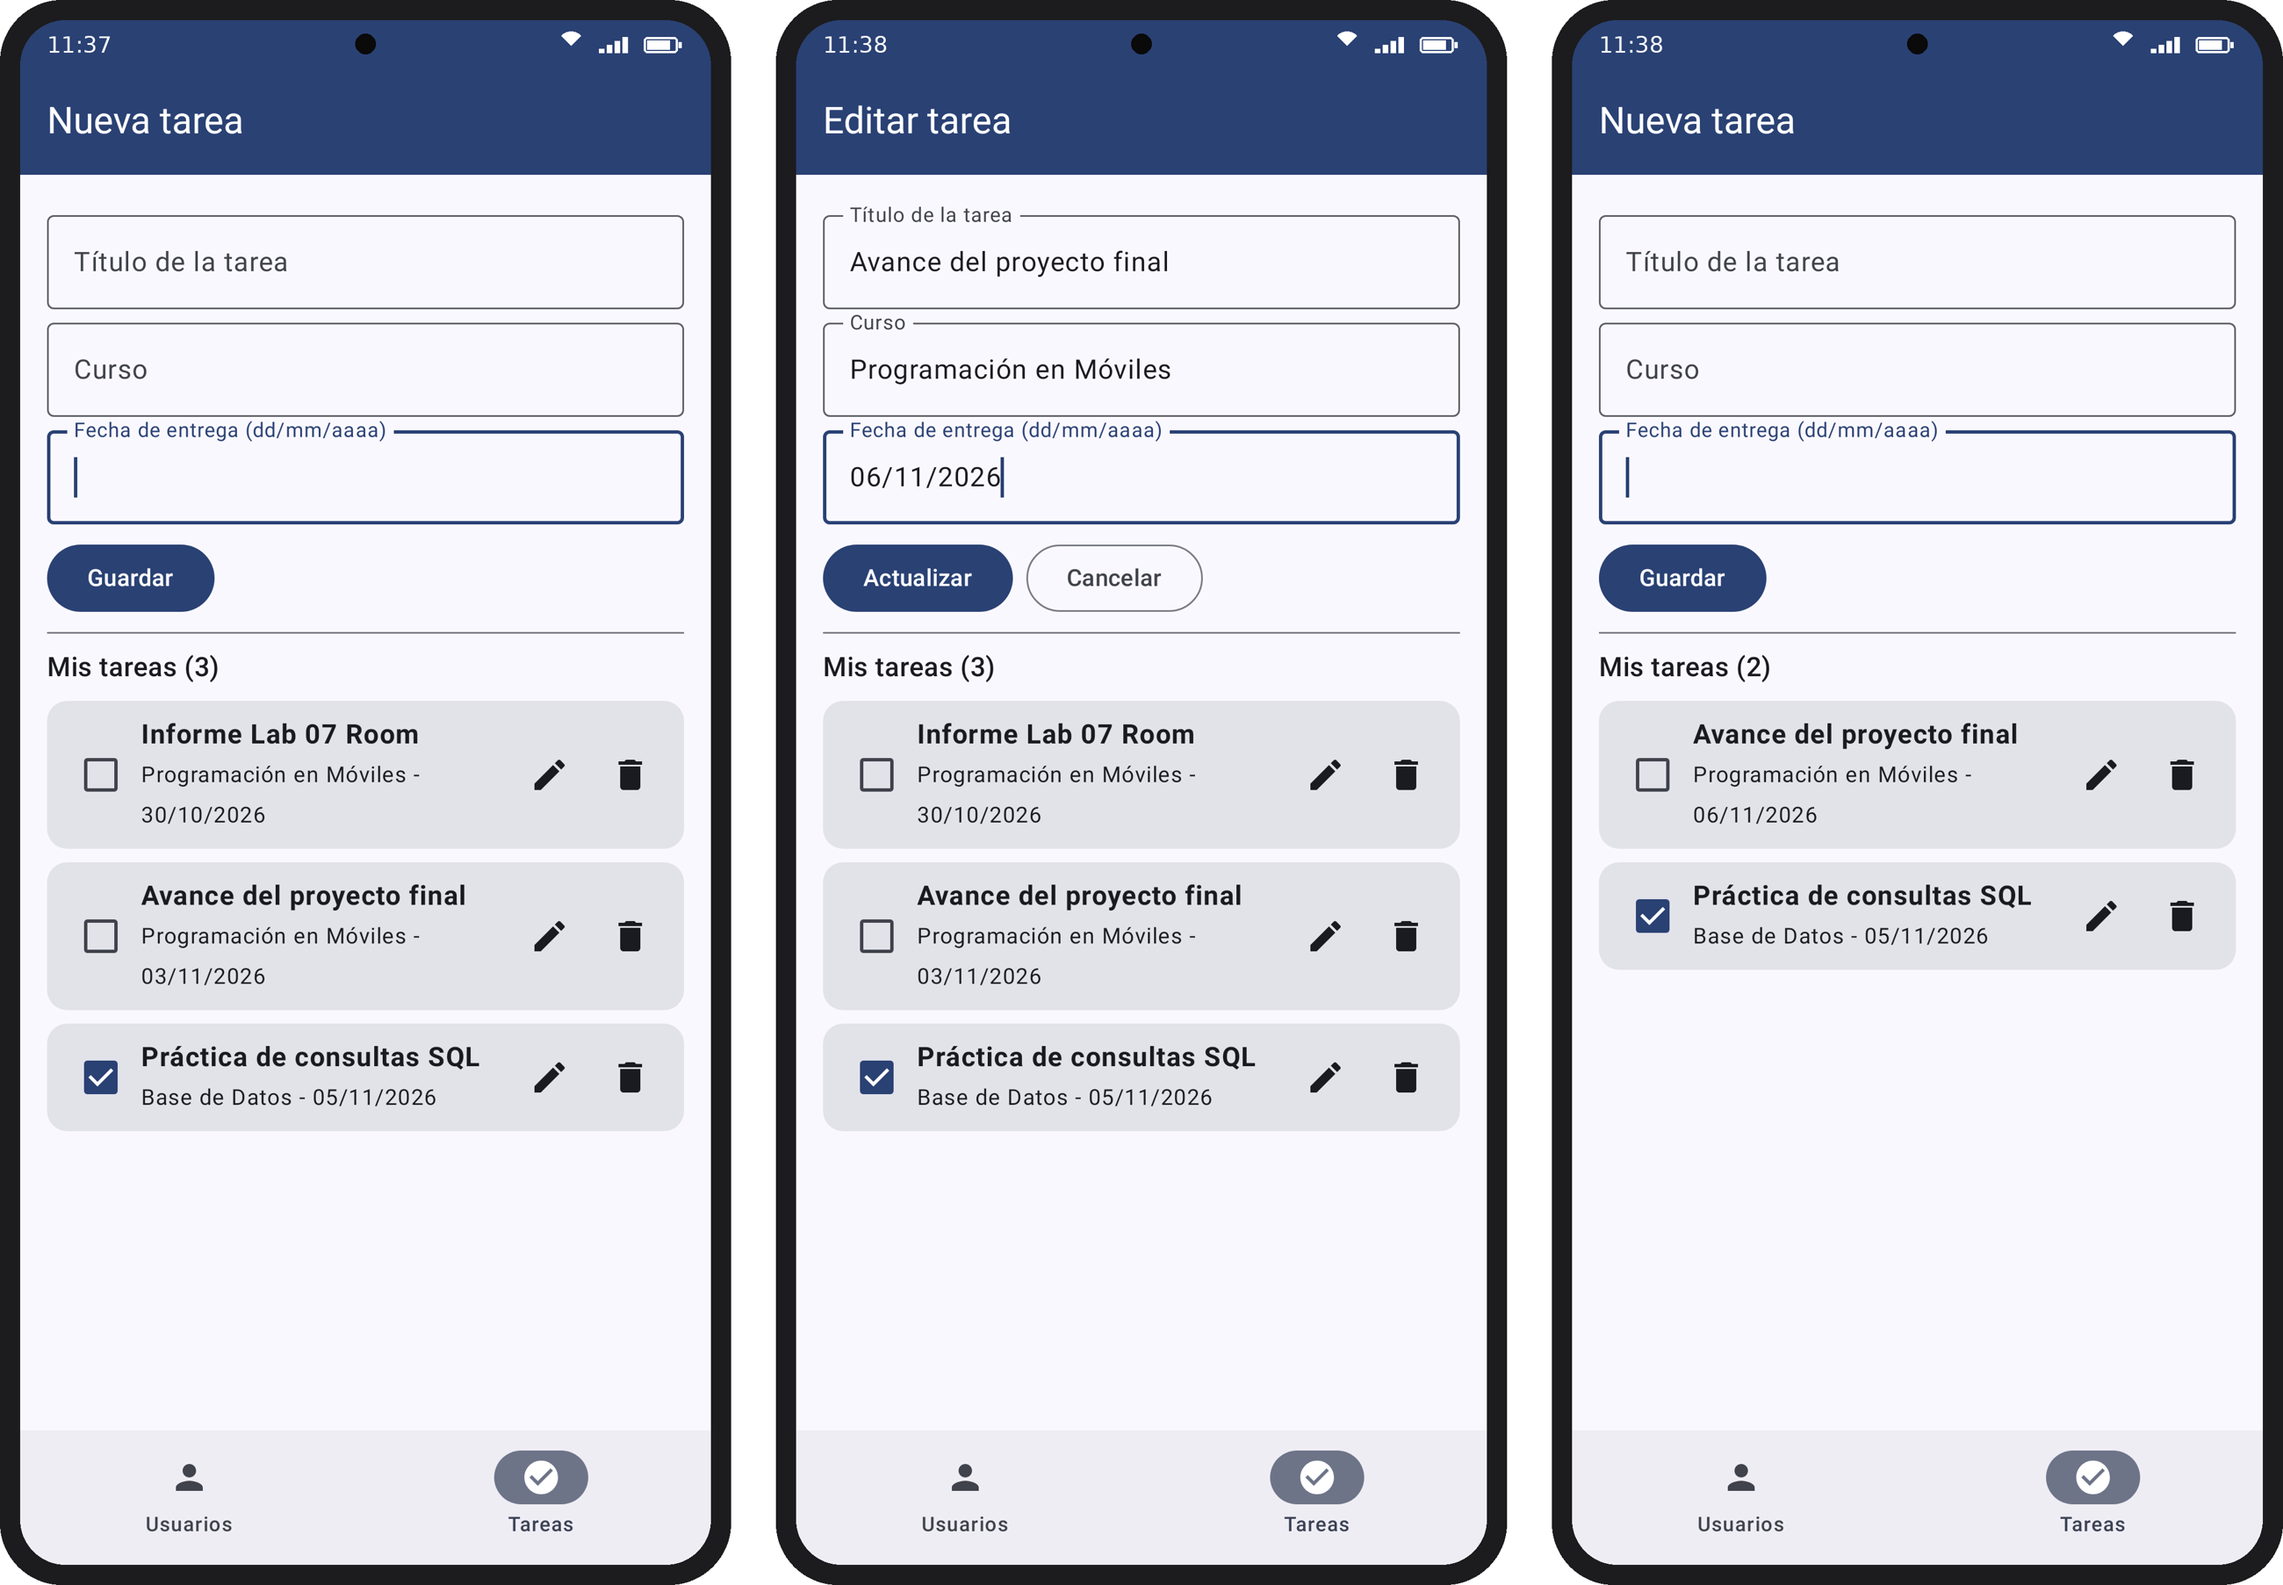
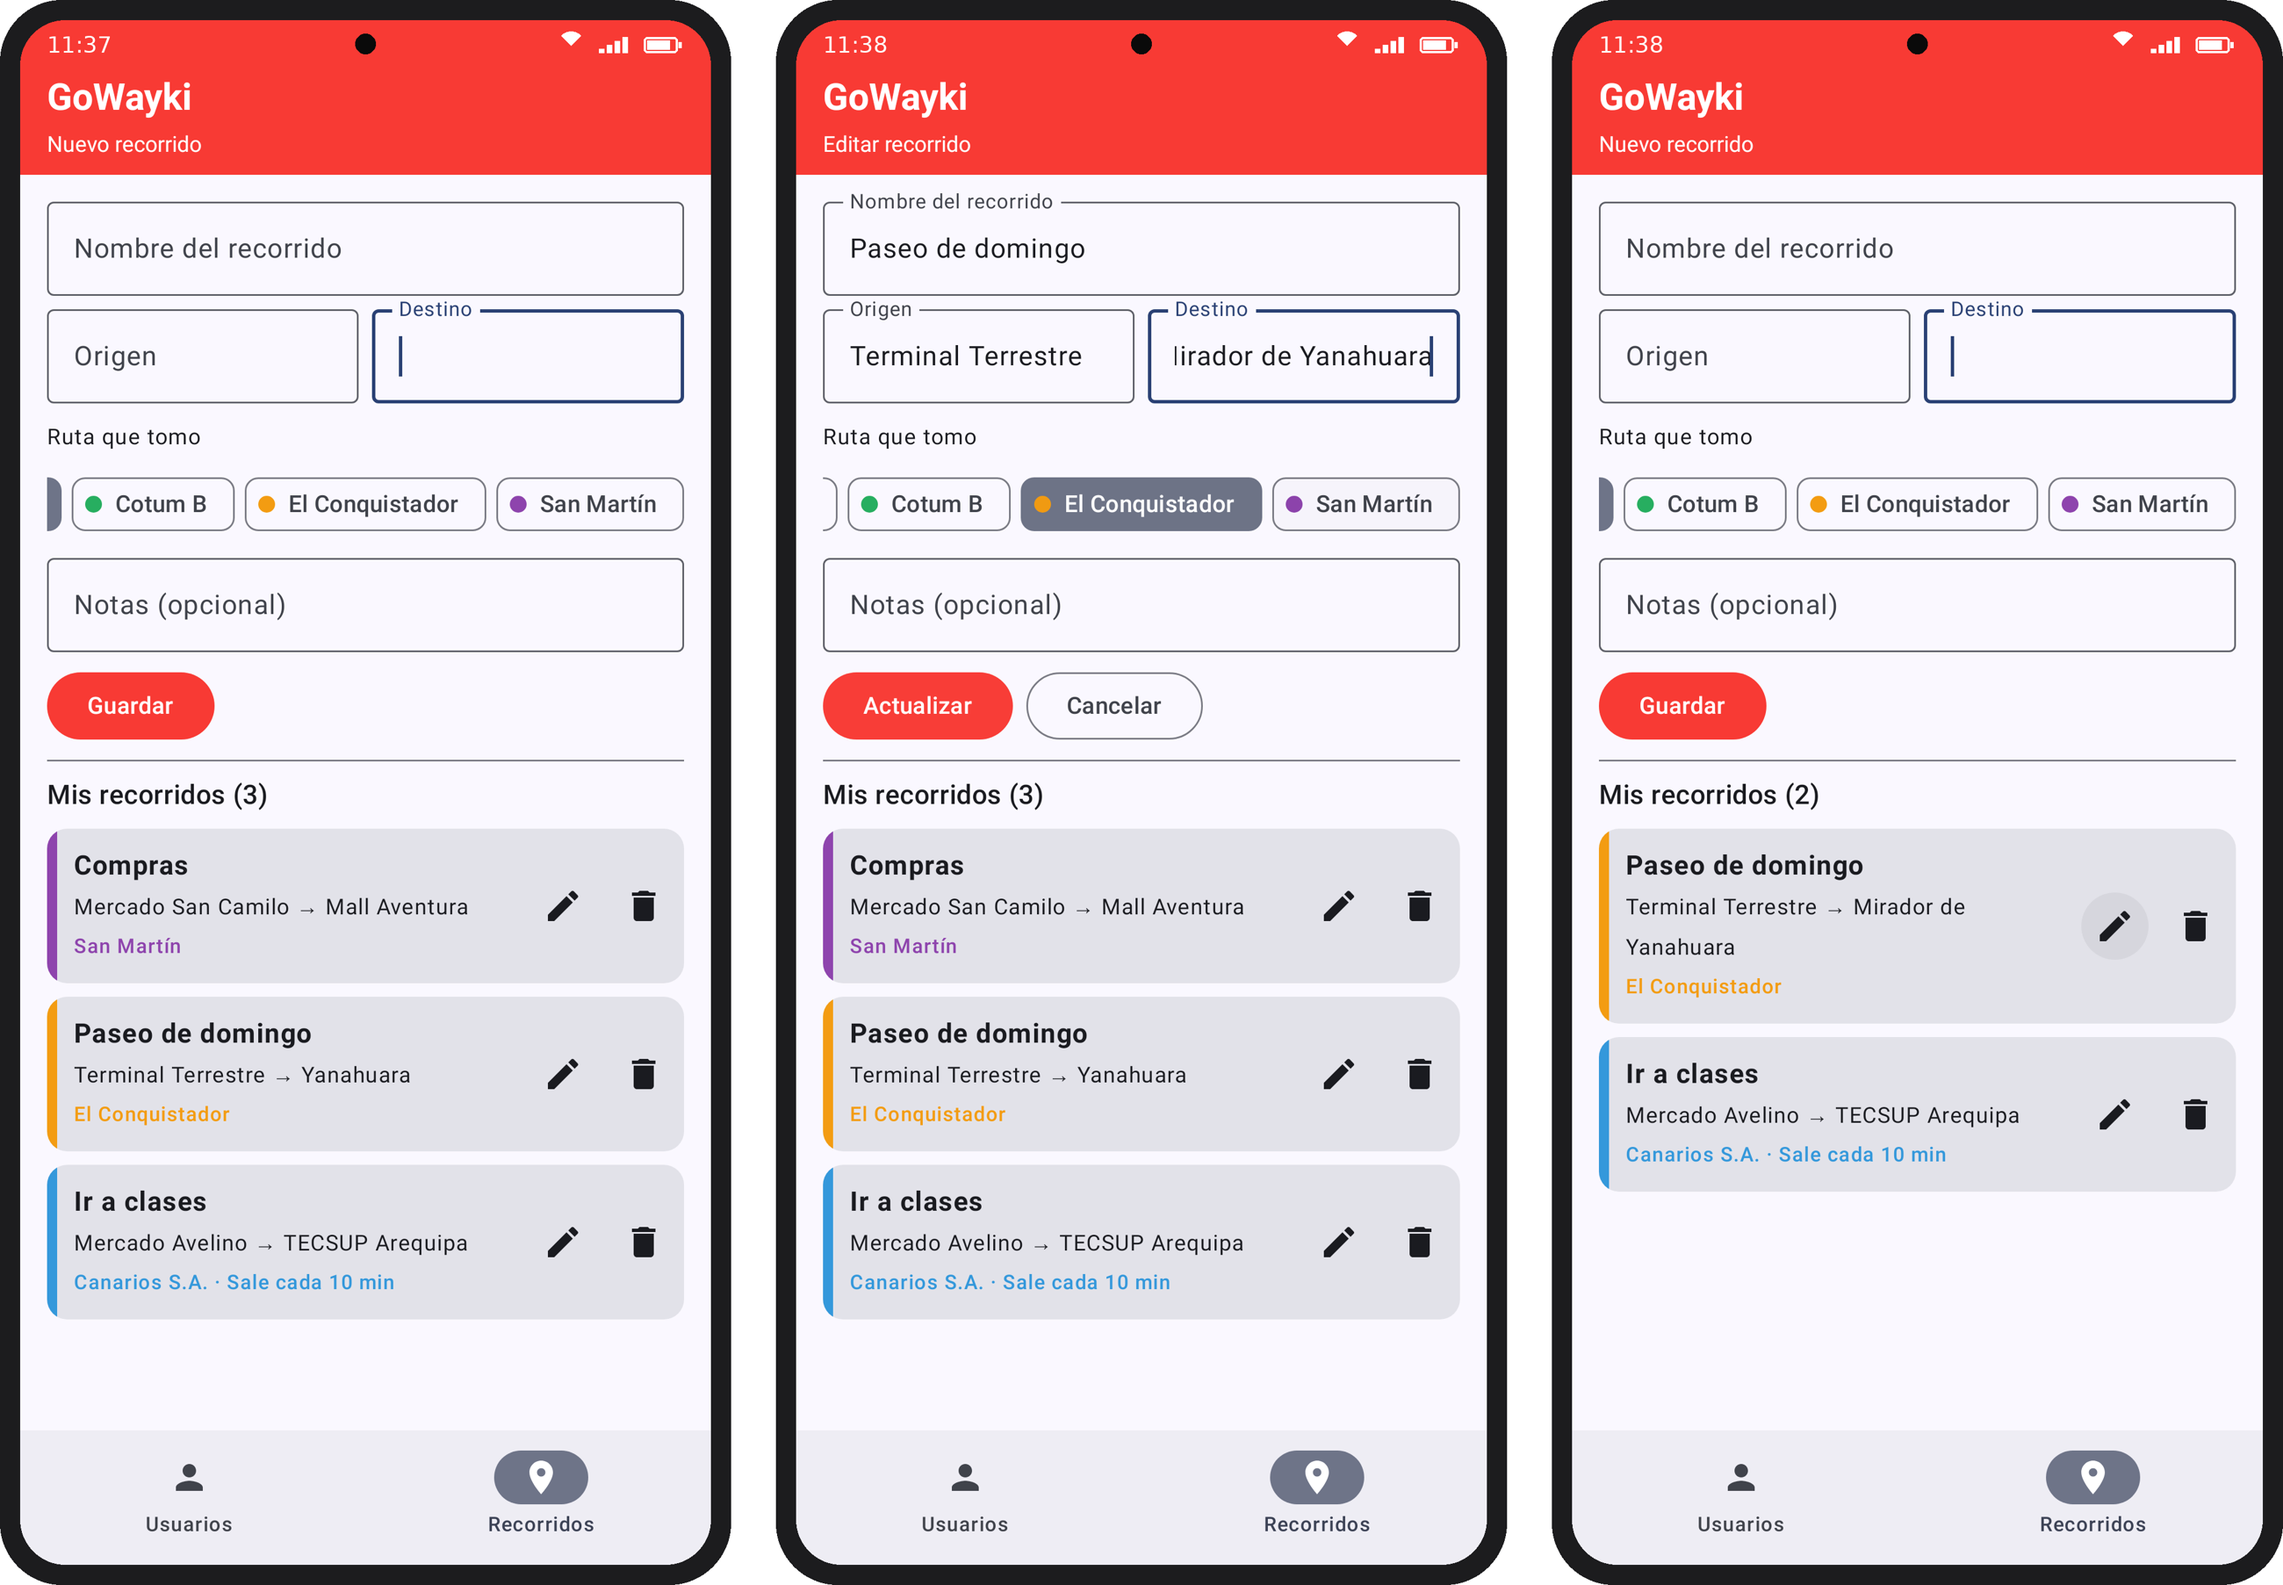
docs: actualizar README y capturas con el ejercicio de GoWayki

diff --git a/README.md b/README.md
@@ -10,7 +10,7 @@ Proyecto **DatosSinMVVM** hecho con Kotlin, Jetpack Compose y Room.
 |---|---|---|
 | Parte guiada | Agregar y listar usuarios en SQLite con Room | `User.kt`, `UserDao.kt`, `UserDatabase.kt`, `ScreenUser.kt` |
 | Ejercicio 1 | Eliminar el último usuario y mover las acciones a un TopAppBar dentro de un Scaffold | `UserDao.kt`, `ScreenUser.kt` |
-| Ejercicio 2 | CRUD de la vista "Nueva tarea" del proyecto final | `tareas/Tarea.kt`, `tareas/TareaDao.kt`, `tareas/AppDatabase.kt`, `tareas/ScreenTareas.kt` |
+| Ejercicio 2 | CRUD de la vista "Mis recorridos" de GoWayki, mi proyecto final (transporte público de Arequipa) | `gowayki/Recorrido.kt`, `gowayki/RecorridoDao.kt`, `gowayki/GoWaykiDatabase.kt`, `gowayki/ScreenRecorridos.kt` |
 
 Cada parte tiene un tag: `parte-guiada`, `ejercicio1-eliminar`, `ejercicio1-scaffold`, `ejercicio2-crud`.
 
@@ -21,7 +21,7 @@ Cada parte tiene un tag: `parte-guiada`, `ejercicio1-eliminar`, `ejercicio1-scaf
 | ![](docs/capturas/guiada.png) | ![](docs/capturas/ej1_scaffold.png) |
 
 ![Eliminar último](docs/capturas/ej1_eliminar.png)
-![CRUD tareas](docs/capturas/ej2_crud.png)
+![CRUD Mis recorridos de GoWayki](docs/capturas/ej2_crud.png)
 
 ## Notas
 
